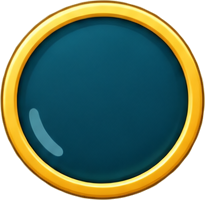
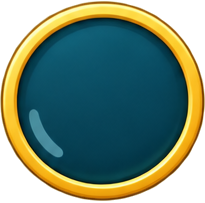
Line up HUD button states
button_down and button_off are now frames of button, so the slicer lines
them up and crops all three with one box (205x203) and they swap in place.

diff --git a/tools/asset_grids.py b/tools/asset_grids.py
@@ -159,8 +159,8 @@ GRIDS = (
          _cells(("panel", "dark teal rounded rectangle panel with a gold border"),
                 ("card_gold", "larger rounded card with a thick gold frame and a dark teal inside"),
                 ("button", "round teal icon button with a gold ring, empty in the middle"),
-                ("button_down", "the same button pressed: darker, highlight line moved down"),
-                ("button_off", "the same button disabled: gray-teal"),
+                ("button_down", "the same button pressed: darker, highlight line moved down", None, "button"),
+                ("button_off", "the same button disabled: gray-teal", None, "button"),
                 ("bar_track", "empty horizontal progress bar track with rounded ends"),
                 ("bar_fill", "teal horizontal progress bar fill with rounded ends"),
                 ("frenzy_marker", "small round badge with a honking goose head"),

diff --git a/docs/Assets.md b/docs/Assets.md
@@ -178,6 +178,8 @@ Output: `assets/icons/<name>.png`, 128 × 128, anchor center.
 
 Output: `assets/hud/<name>.png` at the sliced size (no resize). The 9-slice and 3-slice insets are measured after
 slicing and stored in CSS.
+`button_down` and `button_off` are lined up with `button` and cropped with the same box, so the three states
+swap in place.
 
 ### G14 — Outro
 
